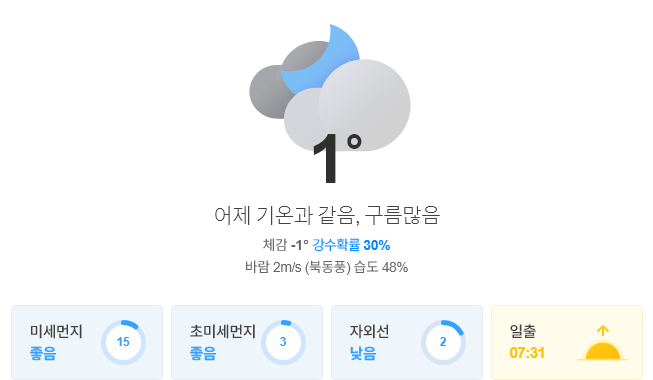
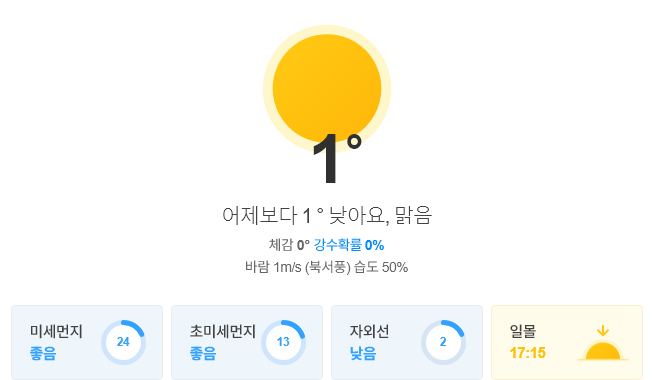
update result

diff --git a/README.md b/README.md
@@ -1,21 +1,21 @@
-##  2020-12-03 05:54:25   목요일 
-##### 날씨   -   어제 기온과 같음, 구름많음
+##  2020-12-03 09:16:37   목요일 
+##### 날씨   -   어제보다 1 ° 낮아요, 맑음
 <center><img src="../img/naver_weather_week.png"></center>
 ----
 ----
 ##### 지수
 <table border="1" bordercolor="blue" align = "center" >
 <tr align = "right" > <td>Item</td><td>Point</td><td>Diff</td><td>Rate</td><td>Buy</td><td>Sell</td><td>...</td>  </tr>
-<tr align = "right" > <td>KOSPI</td><td>2,675.9</td><td>41.65</td><td><font size="3" color="red" >1.58%</font> </td><td><font size="3" color="black">2,000</font></td><td><font size="3" color="black">3,000</font></td><td>0</td>  </tr>
-<tr align = "right" > <td>KOSDAQ</td><td>899.34</td><td>8.05</td><td><font size="3" color="red" >0.9%</font> </td><td><font size="3" color="black">0</font></td><td><font size="3" color="black">0</font></td><td>0</td>  </tr>
+<tr align = "right" > <td>KOSPI</td><td>2,675.9</td><td>-0.0</td><td><font size="3" color="black" >-0.0%</font> </td><td><font size="3" color="black">2,000</font></td><td><font size="3" color="black">3,000</font></td><td>0</td>  </tr>
+<tr align = "right" > <td>KOSDAQ</td><td>899.34</td><td>-0.0</td><td><font size="3" color="black" >-0.0%</font> </td><td><font size="3" color="black">0</font></td><td><font size="3" color="black">0</font></td><td>0</td>  </tr>
 </table>
 ----
 ##### 세계
 <table border="1" bordercolor="blue" align = "center" >
 <tr align = "right" > <td>Item</td><td>Point</td><td>Diff</td><td>Rate</td><td>Buy</td><td>Sell</td><td>...</td>  </tr>
-<tr align = "right" > <td>DOW</td><td>29,874.92</td><td>51.0</td><td><font size="3" color="red" >0.17%</font></td><td><font size="3" color="black">0</font></td><td><font size="3" color="black">0</font></td><td>0</td>  </tr>
-<tr align = "right" > <td>NASDAQ</td><td>12,334.26</td><td>-20.85</td><td><font size="3" color="blue" >-0.17%</font></td><td><font size="3" color="black">0</font></td><td><font size="3" color="black">0</font></td><td>0</td>  </tr>
-<tr align = "right" > <td>S&P</td><td>3,667.95</td><td>5.5</td><td><font size="3" color="red" >0.15%</font></td><td><font size="3" color="black">0</font></td><td><font size="3" color="black">0</font></td><td>0</td>  </tr>
+<tr align = "right" > <td>DOW</td><td>29,883.79</td><td>59.87</td><td><font size="3" color="red" >0.2%</font></td><td><font size="3" color="black">0</font></td><td><font size="3" color="black">0</font></td><td>0</td>  </tr>
+<tr align = "right" > <td>NASDAQ</td><td>12,349.37</td><td>-5.74</td><td><font size="3" color="blue" >-0.05%</font></td><td><font size="3" color="black">0</font></td><td><font size="3" color="black">0</font></td><td>0</td>  </tr>
+<tr align = "right" > <td>S&P</td><td>3,669.01</td><td>6.56</td><td><font size="3" color="red" >0.18%</font></td><td><font size="3" color="black">0</font></td><td><font size="3" color="black">0</font></td><td>0</td>  </tr>
 <tr align = "right" > <td>SHANHAI</td><td>3,449.38</td><td>-2.56</td><td><font size="3" color="blue" >-0.07%</font></td><td><font size="3" color="black">0</font></td><td><font size="3" color="black">0</font></td><td>0</td>  </tr>
 <tr align = "right" > <td>INDIA</td><td>44,618.04</td><td>-37.4</td><td><font size="3" color="blue" >-0.08%</font></td><td><font size="3" color="black">0</font></td><td><font size="3" color="black">0</font></td><td>0</td>  </tr>
 </table>
@@ -23,31 +23,31 @@
 ##### 시장
 <table border="1" bordercolor="blue" align = "center" >
 <tr align = "right" > <td>Item</td><td>Price</td><td>Diff</td><td>Rate</td><td>Buy</td><td>Sell</td><td>...</td>  </tr>
-<tr align = "right" > <td>USD</td><td>1,103.0</td><td>-5.5</td><td><font size="3" color="blue">-0.5%</font></td><td><font size="3" color="orangered">1,110</font></td><td><font size="3" color="black">0</font></td><td>0</td>  </tr>
-<tr align = "right" > <td>WTI</td><td>44.55</td><td>-0.79</td><td><font size="3" color="blue">-1.74%</font></td><td><font size="3" color="black">29.0</font></td><td><font size="3" color="black">0</font></td><td>0</td>  </tr>
-<tr align = "right" > <td>GOLD</td><td>1,814.0</td><td>38.4</td><td><font size="3" color="red">2.16%</font></td><td><font size="3" color="black">0</font></td><td><font size="3" color="black">0</font></td><td>0</td>  </tr>
+<tr align = "right" > <td>USD</td><td>1,101.0</td><td>-2.0</td><td><font size="3" color="blue">-0.18%</font></td><td><font size="3" color="orangered">1,110</font></td><td><font size="3" color="black">0</font></td><td>0</td>  </tr>
+<tr align = "right" > <td>WTI</td><td>45.28</td><td>0.73</td><td><font size="3" color="red">1.63%</font></td><td><font size="3" color="black">29.0</font></td><td><font size="3" color="black">0</font></td><td>0</td>  </tr>
+<tr align = "right" > <td>GOLD</td><td>1,825.0</td><td>11.6</td><td><font size="3" color="red">0.63%</font></td><td><font size="3" color="black">0</font></td><td><font size="3" color="black">0</font></td><td>0</td>  </tr>
 </table>
 ----
 ##### 주가
 <table border="1" bordercolor="blue" align = "center" >
 <tr align = "right" > <td>Item</td><td>Price</td><td>Diff</td><td>Rate</td><td>Purchased</td><td>Sell</td><td>Buy</td>  </tr>
-<tr align = "right" > <td>한국 전력</td><td>21,700</td><td>100</td><td><font size="3" color="red">0.46%</font></td><td>25,720</td><td><font size="3" color="black">30,000</font></td><td><font size="3" color="black">14,000</font></td>  </tr>
-<tr align = "right" > <td>삼성엔지니어.</td><td>13,800</td><td>-50</td><td><font size="3" color="blue">-0.36%</font></td><td>18,935</td><td><font size="3" color="black">20,000</font></td><td><font size="3" color="black">8,000</font></td>  </tr>
-<tr align = "right" > <td>CJ CGV</td><td>24,550</td><td>1,600</td><td><font size="3" color="red">6.97%</font></td><td>34,895</td><td><font size="3" color="black">36,000</font></td><td><font size="3" color="black">0</font></td>  </tr>
-<tr align = "right" > <td>아모레퍼시픽</td><td>191,500</td><td>4,000</td><td><font size="3" color="red">2.13%</font></td><td>235,350</td><td><font size="3" color="black">240,000</font></td><td><font size="3" color="black">130,000</font></td>  </tr>
-<tr align = "right" > <td>한화</td><td>26,700</td><td>600</td><td><font size="3" color="red">2.3%</font></td><td>25,550</td><td><font size="3" color="black">30,000</font></td><td><font size="3" color="black">20,000</font></td>  </tr>
-<tr align = "right" > <td>NAVER</td><td>283,500</td><td>-2,000</td><td><font size="3" color="blue">-0.7%</font></td><td>147,200</td><td><font size="3" color="black">400,000</font></td><td><font size="3" color="black">150,000</font></td>  </tr>
-<tr align = "right" > <td>LG 화학우</td><td>376,500</td><td>11,500</td><td><font size="3" color="red">3.15%</font></td><td>202,490</td><td><font size="3" color="black">500,000</font></td><td><font size="3" color="black">200,000</font></td>  </tr>
-<tr align = "right" > <td>스튜디오드래.</td><td>80,300</td><td>-400</td><td><font size="3" color="blue">-0.5%</font></td><td>81,243</td><td><font size="3" color="black">100,000</font></td><td><font size="3" color="black">78,000</font></td>  </tr>
-<tr align = "right" > <td>글로벌럭셔리</td><td>14,370</td><td>35</td><td><font size="3" color="red">0.24%</font></td><td>0</td><td><font size="3" color="black">15,000</font></td><td><font size="3" color="black">10,000</font></td>  </tr>
-<tr align = "right" > <td>QV미국IT</td><td>25,020</td><td>230</td><td><font size="3" color="red">0.93%</font></td><td>0</td><td><font size="3" color="black">30,000</font></td><td><font size="3" color="black">20,000</font></td>  </tr>
-<tr align = "right" > <td>호텔 신라</td><td>82,000</td><td>1,000</td><td><font size="3" color="red">1.23%</font></td><td>72,800</td><td><font size="3" color="black">100,000</font></td><td><font size="3" color="black">70,000</font></td>  </tr>
-<tr align = "right" > <td>S-Oil</td><td>70,800</td><td>800</td><td><font size="3" color="red">1.14%</font></td><td>62,842</td><td><font size="3" color="black">100,000</font></td><td><font size="3" color="black">50,000</font></td>  </tr>
-<tr align = "right" > <td>LG전자</td><td>85,900</td><td>-100</td><td><font size="3" color="blue">-0.12%</font></td><td>82,022</td><td><font size="3" color="black">100,000</font></td><td><font size="3" color="black">60,000</font></td>  </tr>
-<tr align = "right" > <td>지역난방공사</td><td>40,450</td><td>100</td><td><font size="3" color="red">0.25%</font></td><td>43,590</td><td><font size="3" color="black">60,000</font></td><td><font size="3" color="black">30,000</font></td>  </tr>
-<tr align = "right" > <td>KOEDX은행</td><td>6,310</td><td>110</td><td><font size="3" color="red">1.77%</font></td><td>5,178</td><td><font size="3" color="black">6,000</font></td><td><font size="3" color="black">4,500</font></td>  </tr>
-<tr align = "right" > <td>삼성 전자우</td><td>63,800</td><td>1,300</td><td><font size="3" color="red">2.08%</font></td><td>48,250</td><td><font size="3" color="black">56,000</font></td><td><font size="3" color="black">45,000</font></td>  </tr>
-<tr align = "right" > <td>한화에어로스.</td><td>26,550</td><td>200</td><td><font size="3" color="red">0.76%</font></td><td>25,700</td><td><font size="3" color="black">30,000</font></td><td><font size="3" color="black">24,000</font></td>  </tr>
-<tr align = "right" > <td>한국금융지주</td><td>77,400</td><td>900</td><td><font size="3" color="red">1.18%</font></td><td>0</td><td><font size="3" color="black">82,000</font></td><td><font size="3" color="black">60,000</font></td>  </tr>
+<tr align = "right" > <td>한국 전력</td><td>21,700</td><td>0</td><td><font size="3" color="black">0.0%</font></td><td>25,720</td><td><font size="3" color="black">30,000</font></td><td><font size="3" color="black">14,000</font></td>  </tr>
+<tr align = "right" > <td>삼성엔지니어.</td><td>13,800</td><td>0</td><td><font size="3" color="black">0.0%</font></td><td>18,935</td><td><font size="3" color="black">20,000</font></td><td><font size="3" color="black">8,000</font></td>  </tr>
+<tr align = "right" > <td>CJ CGV</td><td>24,550</td><td>0</td><td><font size="3" color="black">0.0%</font></td><td>34,895</td><td><font size="3" color="black">36,000</font></td><td><font size="3" color="black">0</font></td>  </tr>
+<tr align = "right" > <td>아모레퍼시픽</td><td>191,500</td><td>0</td><td><font size="3" color="black">0.0%</font></td><td>235,350</td><td><font size="3" color="black">240,000</font></td><td><font size="3" color="black">130,000</font></td>  </tr>
+<tr align = "right" > <td>한화</td><td>26,700</td><td>0</td><td><font size="3" color="black">0.0%</font></td><td>25,550</td><td><font size="3" color="black">30,000</font></td><td><font size="3" color="black">20,000</font></td>  </tr>
+<tr align = "right" > <td>NAVER</td><td>283,500</td><td>0</td><td><font size="3" color="black">0.0%</font></td><td>147,200</td><td><font size="3" color="black">400,000</font></td><td><font size="3" color="black">150,000</font></td>  </tr>
+<tr align = "right" > <td>LG 화학우</td><td>376,500</td><td>0</td><td><font size="3" color="black">0.0%</font></td><td>202,490</td><td><font size="3" color="black">500,000</font></td><td><font size="3" color="black">200,000</font></td>  </tr>
+<tr align = "right" > <td>스튜디오드래.</td><td>80,300</td><td>0</td><td><font size="3" color="black">0.0%</font></td><td>81,243</td><td><font size="3" color="black">100,000</font></td><td><font size="3" color="black">78,000</font></td>  </tr>
+<tr align = "right" > <td>글로벌럭셔리</td><td>14,370</td><td>0</td><td><font size="3" color="black">0.0%</font></td><td>0</td><td><font size="3" color="black">15,000</font></td><td><font size="3" color="black">10,000</font></td>  </tr>
+<tr align = "right" > <td>QV미국IT</td><td>25,020</td><td>0</td><td><font size="3" color="black">0.0%</font></td><td>0</td><td><font size="3" color="black">30,000</font></td><td><font size="3" color="black">20,000</font></td>  </tr>
+<tr align = "right" > <td>호텔 신라</td><td>82,000</td><td>0</td><td><font size="3" color="black">0.0%</font></td><td>72,800</td><td><font size="3" color="black">100,000</font></td><td><font size="3" color="black">70,000</font></td>  </tr>
+<tr align = "right" > <td>S-Oil</td><td>70,800</td><td>0</td><td><font size="3" color="black">0.0%</font></td><td>62,842</td><td><font size="3" color="black">100,000</font></td><td><font size="3" color="black">50,000</font></td>  </tr>
+<tr align = "right" > <td>LG전자</td><td>85,900</td><td>0</td><td><font size="3" color="black">0.0%</font></td><td>82,022</td><td><font size="3" color="black">100,000</font></td><td><font size="3" color="black">60,000</font></td>  </tr>
+<tr align = "right" > <td>지역난방공사</td><td>40,450</td><td>0</td><td><font size="3" color="black">0.0%</font></td><td>43,590</td><td><font size="3" color="black">60,000</font></td><td><font size="3" color="black">30,000</font></td>  </tr>
+<tr align = "right" > <td>KOEDX은행</td><td>6,310</td><td>0</td><td><font size="3" color="black">0.0%</font></td><td>5,178</td><td><font size="3" color="black">6,000</font></td><td><font size="3" color="black">4,500</font></td>  </tr>
+<tr align = "right" > <td>삼성 전자우</td><td>63,800</td><td>0</td><td><font size="3" color="black">0.0%</font></td><td>48,250</td><td><font size="3" color="black">56,000</font></td><td><font size="3" color="black">45,000</font></td>  </tr>
+<tr align = "right" > <td>한화에어로스.</td><td>26,550</td><td>0</td><td><font size="3" color="black">0.0%</font></td><td>25,700</td><td><font size="3" color="black">30,000</font></td><td><font size="3" color="black">24,000</font></td>  </tr>
+<tr align = "right" > <td>한국금융지주</td><td>77,400</td><td>0</td><td><font size="3" color="black">0.0%</font></td><td>0</td><td><font size="3" color="black">82,000</font></td><td><font size="3" color="black">60,000</font></td>  </tr>
 </table>
 ----
